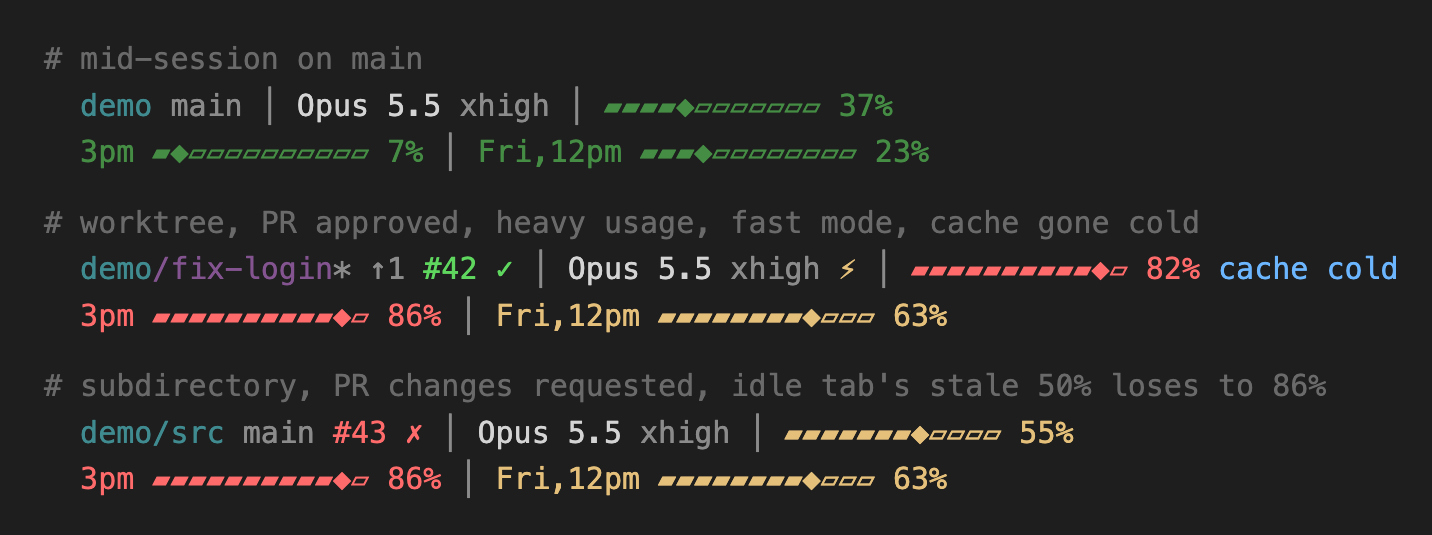
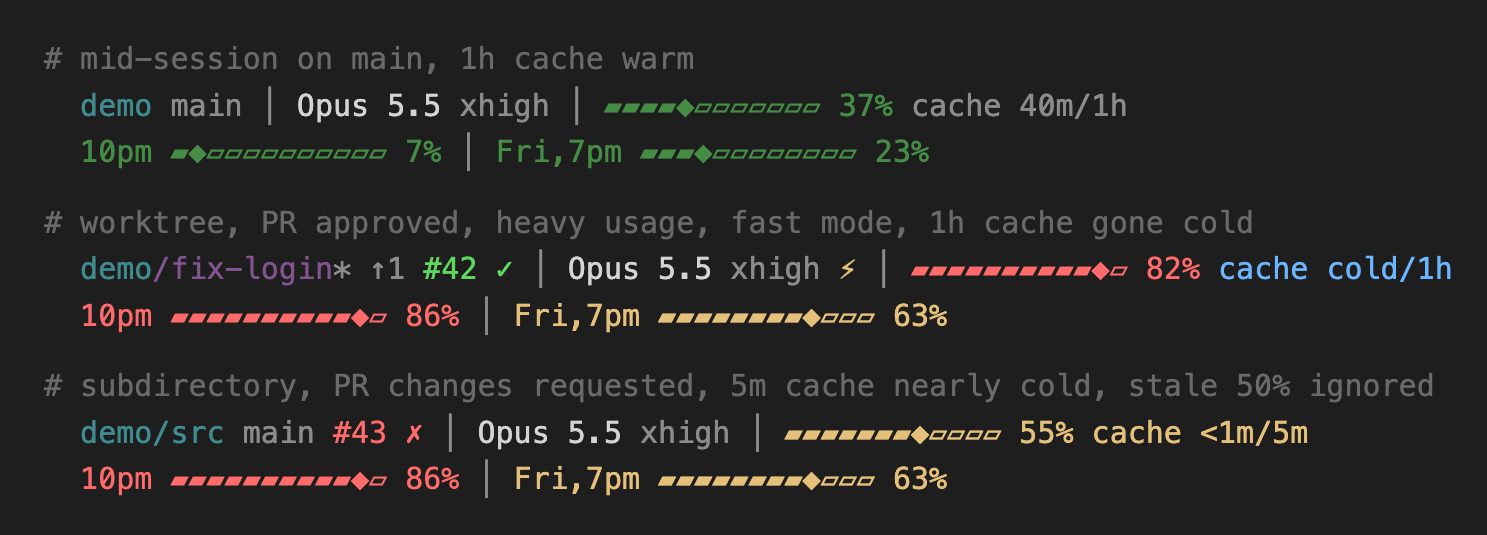
Cache countdown: time left and 5m/1h TTL
"cache cold" becomes a live countdown of the prompt cache: `cache 42m/1h`
while warm (dim; yellow in the last fifth of the TTL), `cache cold/1h` once
expired. Reads prompt_cache.ttl and expires_at from stdin. Ticks via
statusLine.refreshInterval: 30, documented in README and CLAUDE.md.
preview.sh covers 1h warm, 1h cold, 5m nearly cold, 5m warm.

Claude-Session: https://claude.ai/code/session_01QJBvfUsjPFnuPbfg1CZPsc

diff --git a/README.md b/README.md
@@ -12,7 +12,7 @@ A two-line status line for [Claude Code](https://code.claude.com/docs/en/statusl
 - `*` uncommitted changes to tracked files; `↑`/`↓` commits ahead of / behind upstream.
 - `#42` is the open PR for the branch: green `✓` approved, red `✗` changes requested, yellow awaiting review, dim `draft`. Cmd-click opens it (iTerm2, Kitty, WezTerm).
 - Effort level as set by `/effort`; `⚡` in fast mode.
-- Context window bar. `cache cold` appears once the prompt cache has expired, meaning the next message re-processes the whole context.
+- Context window bar, then the prompt cache: `cache 42m/1h` is minutes left out of its lifetime (Claude Code uses either a 5-minute or a 1-hour cache). It turns yellow in the last fifth of the lifetime and becomes `cache cold/1h` once expired, meaning the next message re-processes the whole context. That costs about 12–20× a warm message's input, once.
 
 **Line 2:** 5-hour usage bar with the hour it resets │ weekly usage bar with the day and hour it resets.
 
@@ -38,12 +38,13 @@ Then in `~/.claude/settings.json`:
   "statusLine": {
     "type": "command",
     "command": "~/.claude/statusline.sh",
-    "padding": 2
+    "padding": 2,
+    "refreshInterval": 30
   }
 }
 ```
 
-Because it's a symlink, `git pull` updates the status line in every running session.
+`refreshInterval` redraws the line every 30 seconds so the cache countdown ticks while you're idle. Because the script is a symlink, `git pull` updates the status line in every running session.
 
 ## Preview
 

diff --git a/CLAUDE.md b/CLAUDE.md
@@ -7,6 +7,7 @@ updated: 2026-10-05
 
 - On the Mac, `~/.claude/statusline.sh` is a symlink to `~/code/claude-statusline/statusline.sh` (the main checkout, which stays on `main`). Merging to `main` changes the status line in every running Claude Code session, so run `./preview.sh` before merging. Never copy the script into `~/.claude`.
 - All data comes from stdin (read once with `jq`) and local git. Never add network calls or read OAuth credentials. Claude Code cancels a run that's still going when the next refresh fires, so keep a render under ~100ms.
+- The cache countdown relies on `"refreshInterval": 30` in the `statusLine` block of `~/.claude/settings.json`. Keep it there. It's what makes idle sessions re-render, and every session runs the script on that timer, which is one more reason to keep it fast.
 - Always pass `--no-optional-locks` to git. Background agents commit in the same repos.
 - After any change, run `./preview.sh`. When you add a new state, add a scenario for it there.
 - Owner's taste calls: keep the `▰▱◆` bars, clock-time reset labels, and two lines. No pacing marker on the bars. It was removed in 324166e and again in e349aeb, so don't re-add it without asking.
